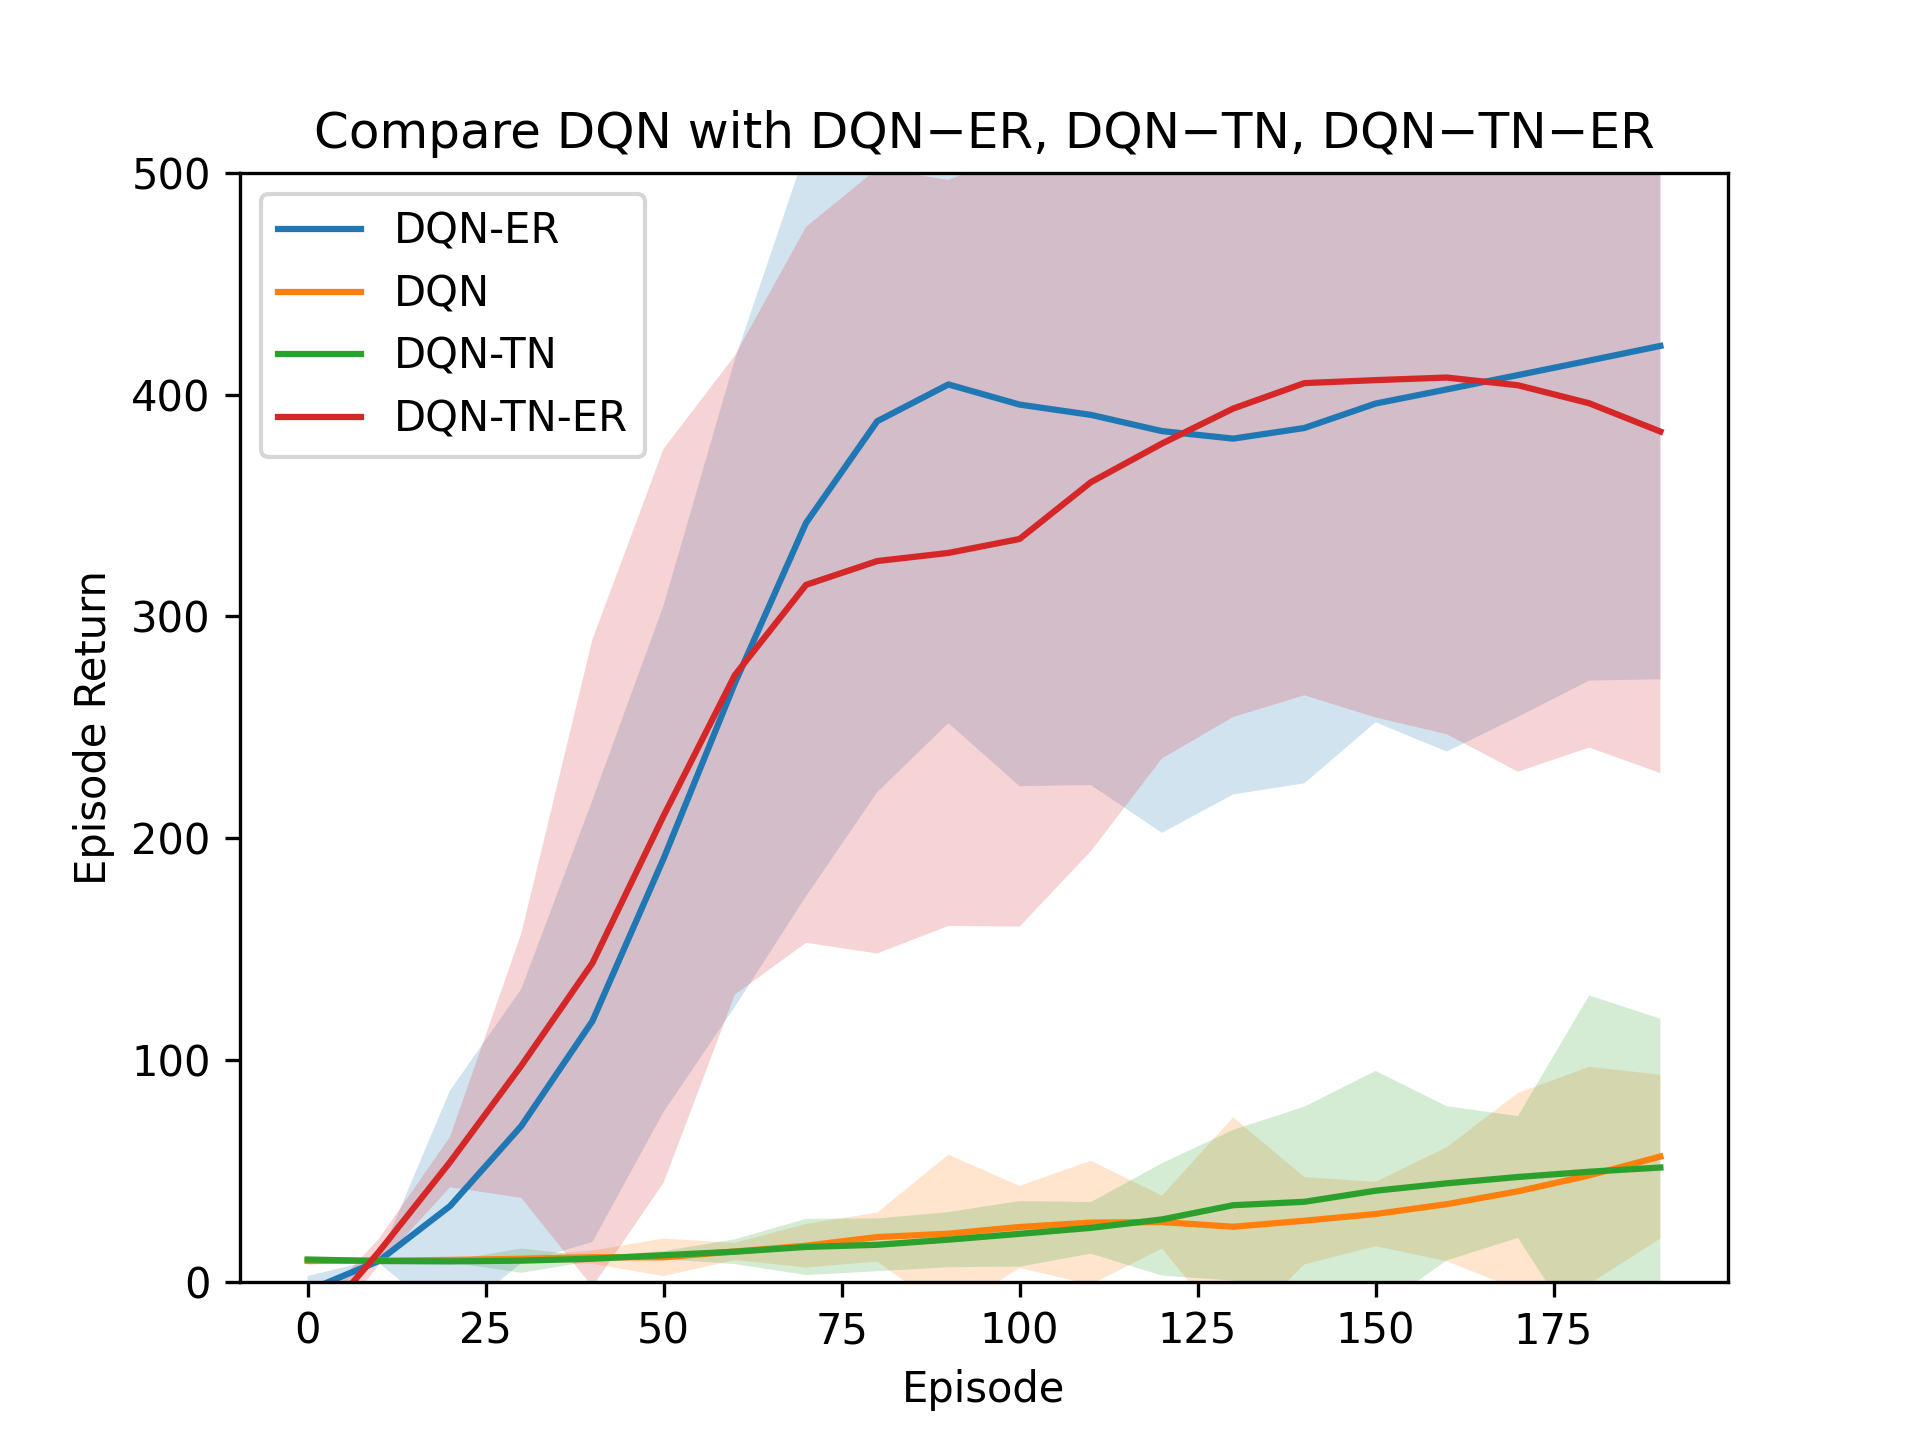
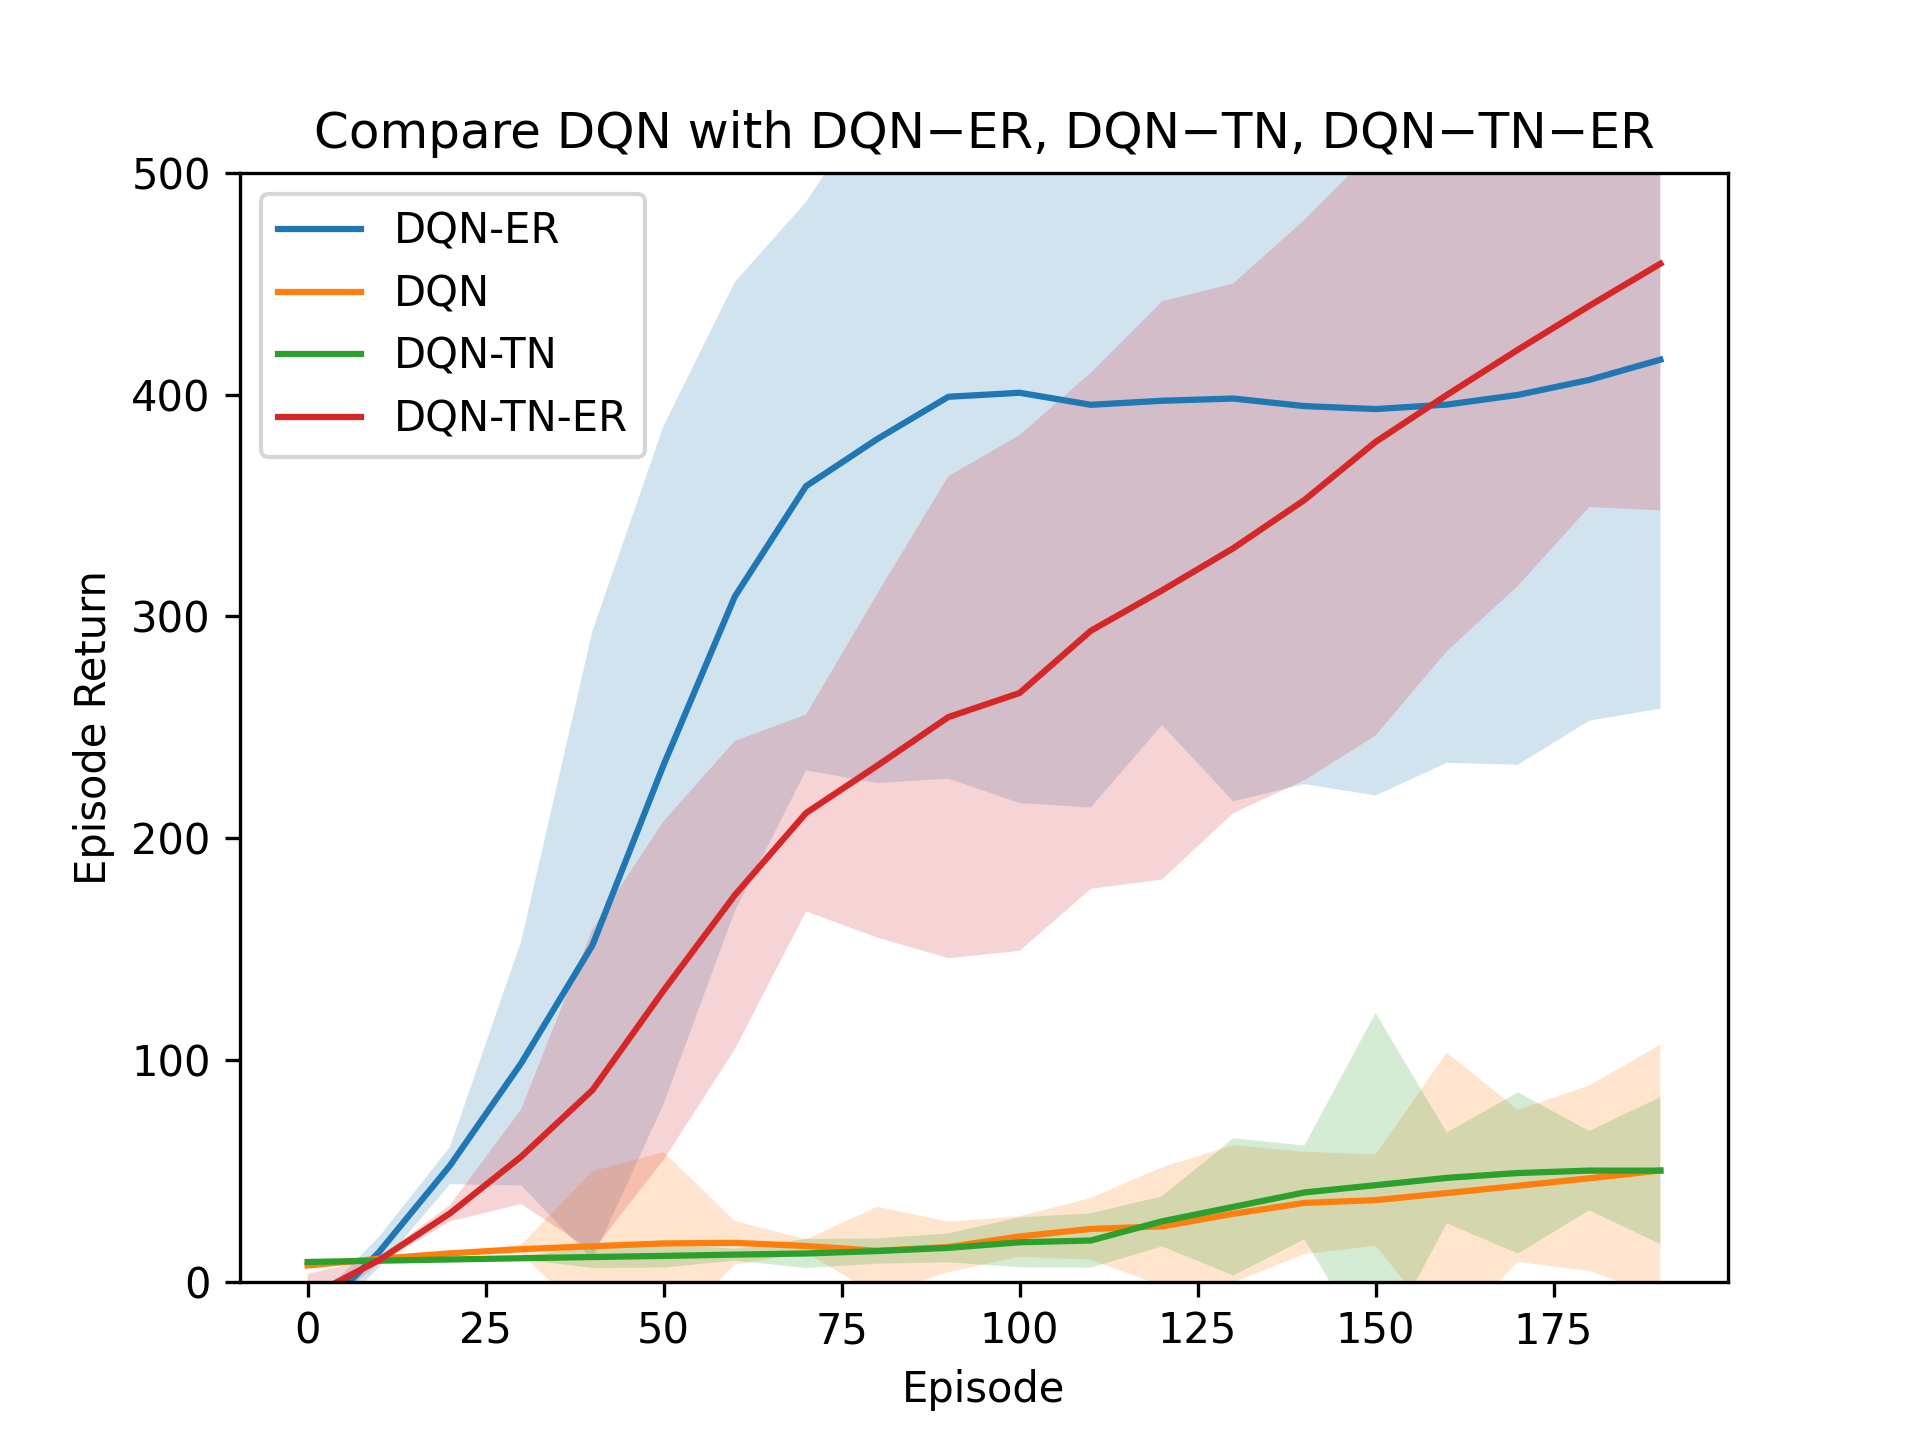
ablation study result

diff --git a/Double_DQN.py b/Double_DQN.py
@@ -1,0 +1,106 @@
+import numpy as np
+import torch
+from utils import smooth
+import tqdm
+
+from DQA import DQN_Agent
+
+
+def DQN_learning(env, args):
+    agent = DQN_Agent(**vars(args))
+    reward_means = []
+    for e in range(args.num_episodes):
+        state = env.reset()[0]  # Sample initial state
+        state = torch.tensor(state, dtype=torch.float32).unsqueeze(0)
+
+        episode_done = False  # Completed the episode
+        episode_truncated = False  # For example reaching the maximum number of steps
+
+        while not (episode_done or episode_truncated):
+            # Action selection
+            action = agent.select_action(state, policy_str=args.explr).reshape(
+                1, 1
+            )  # Sample action (e.g, epsilon-greedy)
+            action_index = action.item()
+            next_state, reward, episode_done, episode_truncated, _ = env.step(
+                action_index
+            )  # Simulate environment
+            reward = torch.tensor([reward])
+            next_state = (
+                None
+                if episode_done
+                else torch.tensor(next_state, dtype=torch.float32).unsqueeze(0)
+            )  # If the epsidoe terminates no next state
+            # Store experience in buffer
+            agent.memory.append((state, action, next_state, reward))
+            double_dqn(args, agent)
+            # Update policy
+            state = next_state
+        # Evaluate the performance every eval_interval episodes
+        if e % args.eval_interval == 0:
+            print("Episode: {}".format(e))
+            returns = agent.evaluate()
+            print(f"Evaluation: reward for episode {e} is {returns}")
+            reward_means.append(returns)
+
+    return reward_means
+
+
+def double_dqn(args, agent):
+    # Sample a batch of experiences
+    print("batch size", agent.batch_size)
+    experiences = agent.get_sample()
+    states_tuple, actions_tuple, next_states_tuple, rewards_tuple = zip(
+        *experiences
+    )  # Unpack the batch
+    # Convert to tensors
+    states_batch = torch.cat(states_tuple)
+    actions_batch = torch.cat(actions_tuple)
+    rewards_batch = torch.cat(rewards_tuple)
+
+    # Predict the Q-values
+    predicted_q_values = agent.policy_net(states_batch).gather(1, actions_batch)
+    agent.steps_done += 1
+    # Calculate the target Q-values by Q-learning update rule
+    next_state_actions = torch.zeros(agent.batch_size)
+    for i in range(len(next_states_tuple)):
+        if next_states_tuple[i] is not None:
+            with torch.no_grad():  # Speed up the computation by not tracking gradients
+                next_state_actions[i] = agent.policy_net(next_states_tuple[i]).max(1)[0]
+
+    next_state_values = (
+        agent.target_net(next_states_tuple).gather(1, next_state_actions).squeeze(1)
+    )
+    target_q_values = (next_state_values * agent.gamma) + rewards_batch
+
+    # Update current policy
+    # criterion = torch.nn.SmoothL1Loss() # Compute Huber loss <= works better
+    criterion = torch.nn.MSELoss()
+    loss = criterion(predicted_q_values, target_q_values.unsqueeze(1))
+    agent.optimizer.zero_grad()
+    loss.backward()
+    # torch.nn.utils.clip_grad_value_(agent.policy_net.parameters(), 100) # Clip gradients
+    agent.optimizer.step()
+
+    # Syncronize target and policy network to stabilize learning
+    if agent.steps_done % args.steps == 0:
+        agent.target_net.load_state_dict(agent.policy_net.state_dict())
+
+
+def average_over_repetitions(env, args):
+    smoothing_window = 9
+
+    print(f"Running with arguments =====>: {args}")
+    num_evaluation_points = args.num_episodes // args.eval_interval
+    returns_over_repetitions = np.zeros((args.num_repetitions, num_evaluation_points))
+
+    for i in tqdm.tqdm(range(args.num_repetitions)):
+        returns = DQN_learning(env, args)
+        returns_over_repetitions[i] = np.array(returns)
+
+    # Plotting the average performance
+    episodes = np.arange(num_evaluation_points) * args.eval_interval
+    average_returns = np.mean(returns_over_repetitions, axis=0)
+    average_returns_std = np.std(returns_over_repetitions, axis=0)
+    average_returns = smooth(average_returns, smoothing_window)
+    return np.array([episodes, average_returns, average_returns_std])

diff --git a/AgentTrainer.py b/AgentTrainer.py
@@ -11,6 +11,7 @@ import gymnasium as gym
 import os
 
 from DQA import DQN_Agent
+from Double_DQN import double_dqn
 from plotter import LearningCurvePlot
 from utils import smooth, linear_anneal
 
@@ -25,7 +26,6 @@ def main(raw_args=None):
     argparser.add_argument(
         "--ER", default=True, action="store_true", help="Experience Replay"
     )
-    # TODO: I changed the default value of TN to True
     argparser.add_argument(
         "--TN", default=True, action="store_true", help="Target Network"
     )
@@ -45,8 +45,7 @@ def main(raw_args=None):
     argparser.add_argument(
         "--eval_interval", default=10, type=int, help="Evaluation Interval"
     )
-    # TODO: I changed the default value of num_repetitions to 5
-    argparser.add_argument("--num_repetitions", default=5, type=int, help="repetions")
+    argparser.add_argument("--num_repetitions", default=20, type=int, help="repetions")
     argparser.add_argument("--lr", default=1e-4, type=float, help="learning rate")
     argparser.add_argument(
         "--explr", default="egreedy 0.3", type=str, help="Exploration Strategy"
@@ -111,7 +110,6 @@ def DQN_learning(env, args):
                 if episode_done
                 else torch.tensor(next_state, dtype=torch.float32).unsqueeze(0)
             )  # If the epsidoe terminates no next state
-
             # Store experience in buffer
             if args.ER:
                 agent.memory.append((state, action, next_state, reward))
